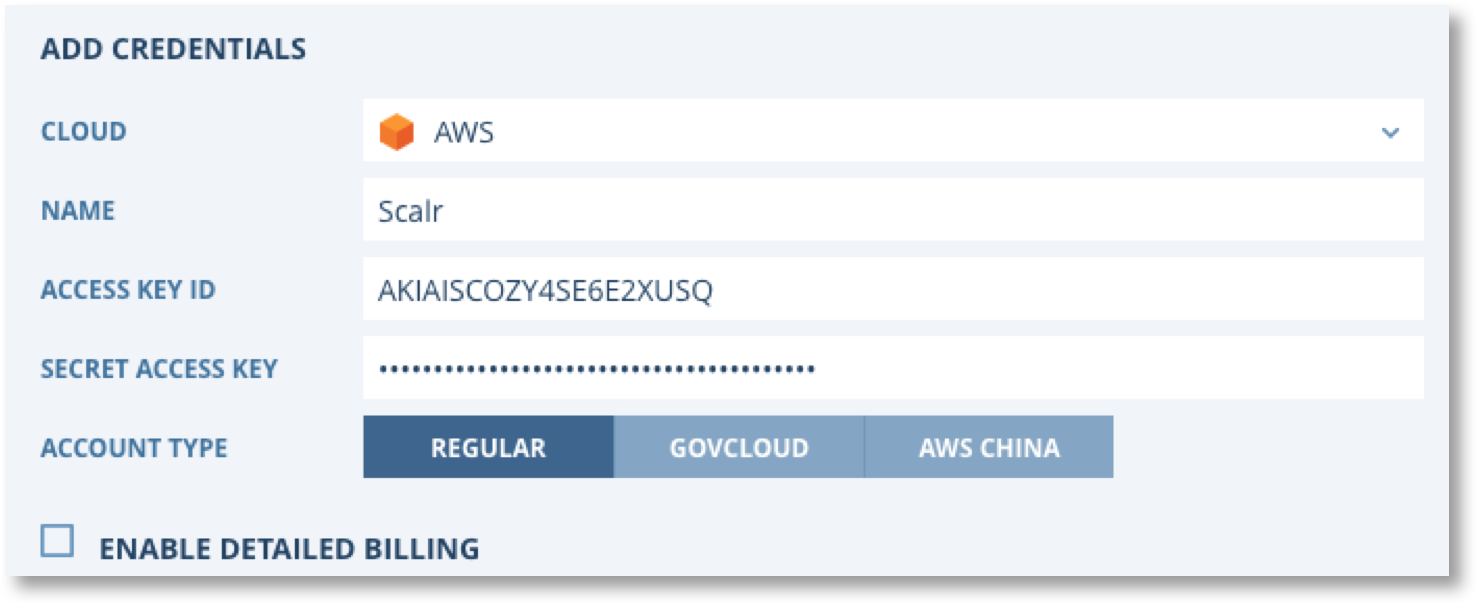
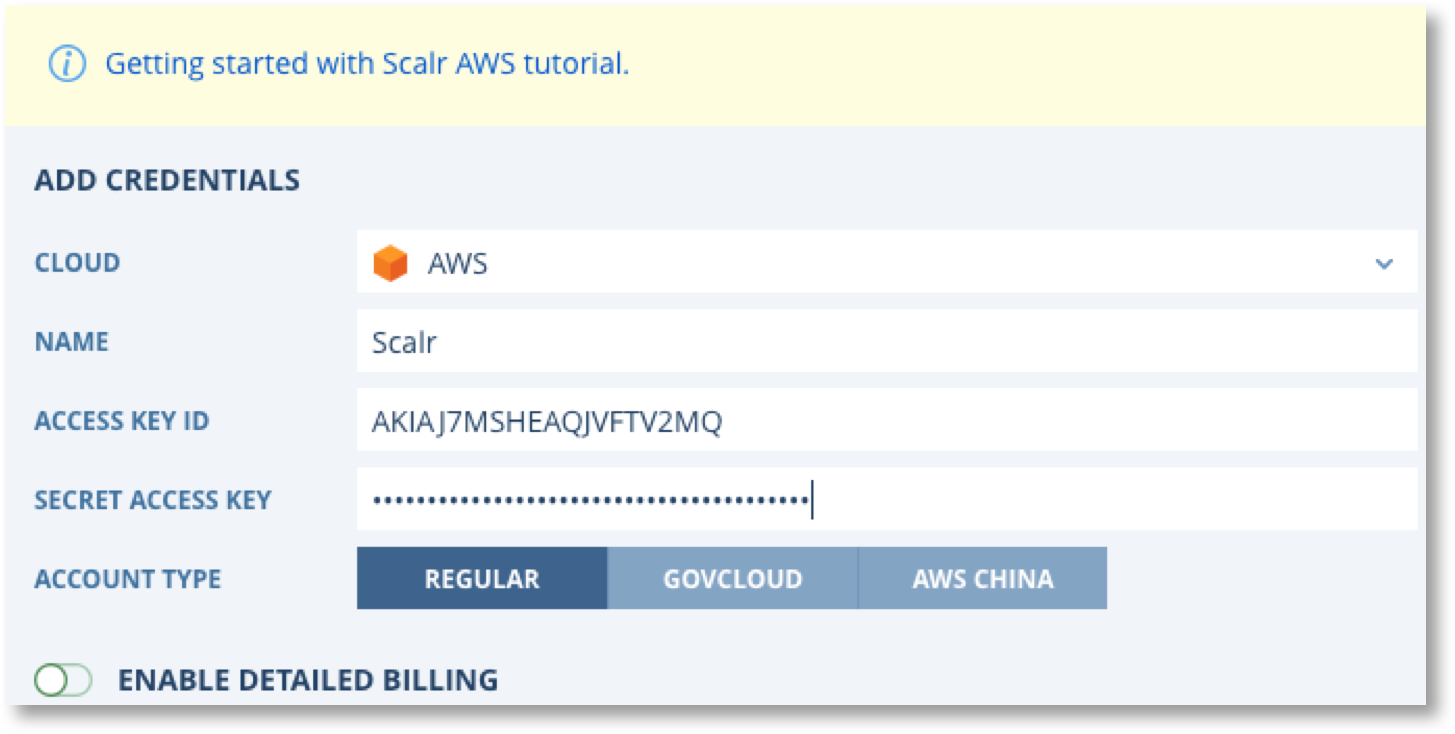
Detailed Billing for AWS

diff --git a/clouds/connecting_aws.rst b/clouds/connecting_aws.rst
@@ -71,7 +71,39 @@ After adding this entry you must re-configure scalr by running ``sudo scalr-serv
 Configure Detailed Billing
 ^^^^^^^^^^^^^^^^^^^^^^^^^^
 
-DETAILS TO FOLLOW
+Scalr supports detailed billing when using AWS. Detailed billing will give you more details than just showing the total price for compute.
+
+To enable detailed billing, you need to activate it in AWS and enter required details into Scalr.
+
+.. warning:: Even if you might have detailed billing enabled in AWS already, you must follow the instructions bellow to make sure the reports from AWS get generated in the correct format that Scalr needs.
+
+.. note::
+    * Please note that the billing details will be processed with a 8-12 hours delay.  This isn't a Scalr delay, but rather AWS posts updated billing information every 8 hours. As soon as it is posted, it becomes possible for us to process it and include in our reports.
+    * If you enable detailed billing, custom Pricing List entries for AWS will be ignored as AWS will be providing the final cost (usage) that we report against.  To add sub-charges with detailed billing enabled you must use Markups.
+
+1. Login to the AWS Console.
+2. Open the profile menu in the top right and click on **My Billing Dashboard**.
+
+.. image:: images/aws_bill_1.png
+   :scale: 50%
+
+3. Click on Preferences in the left menu.
+4. Make sure Receive Billing Reports is checked.
+5. Enter a S3 bucket name to store your reports in.
+6. Click on Verify to make sure the bucket exists and has correct permissions.
+7. Make sure that Detailed billing report with resources and tags is checked.
+8. Click on Save preferences.
+
+.. image:: images/aws_bill_2.png
+   :scale: 50%
+
+9. Click on Manage report tags.
+10. Make sure that scalr-meta is Active and click Save.
+
+.. image:: images/aws_bill_3.png
+   :scale: 50%
+
+.. note:: If scalr-meta is not present, ensure that you have launched at least one Farm Role in order for Scalr to create the correct tags for AWS resources.  There will be an 8-10 hour delay on initial billing details processing.
 
 Configuring your AWS IAM User
 -----------------------------
@@ -134,7 +166,11 @@ After selecting Add Credentials, you will be prompted to configure your Cloud Cr
 .. image:: images/AWS-Keys-Scalr.png
    :scale: 40%
 
-5. Check "Enable Detailed Billing" if you require Scalr to collect detailed billing information for Cost Manager/Analytics.
+5. Check "Enable Detailed Billing" if you require Scalr to collect detailed billing information for Cost Manager/Analytics. Enter the region and S3 Bucket name previously configured in AWS.
+
+.. image:: images/aws-detailed-bill.png
+   :scale: 40%
+
 6. Click Save and your screen should look similar like this after Scalr has validate the Credentials.
 
 .. image:: images/AWS-Keys-Scalr-Saved.png
